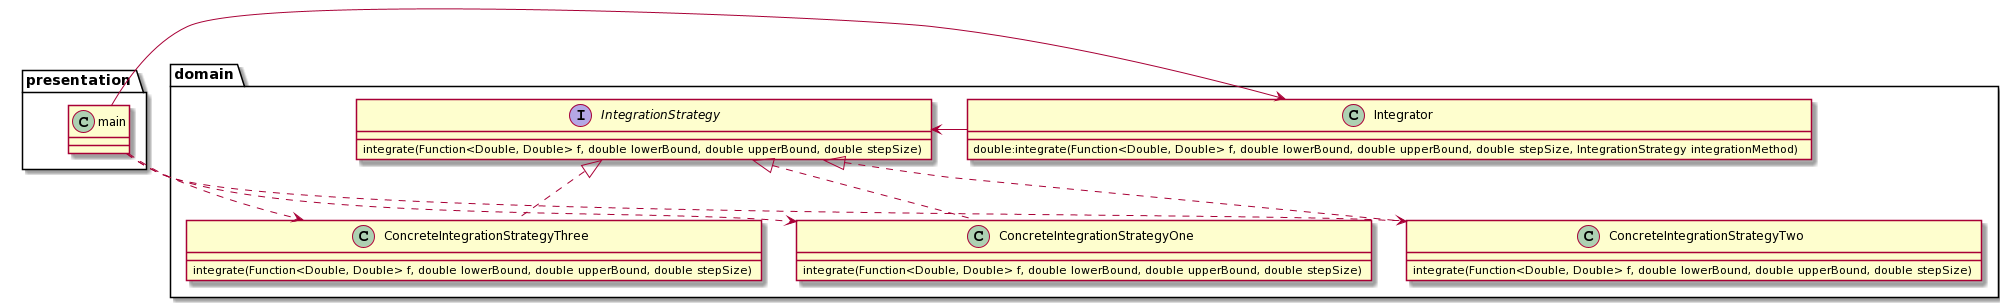
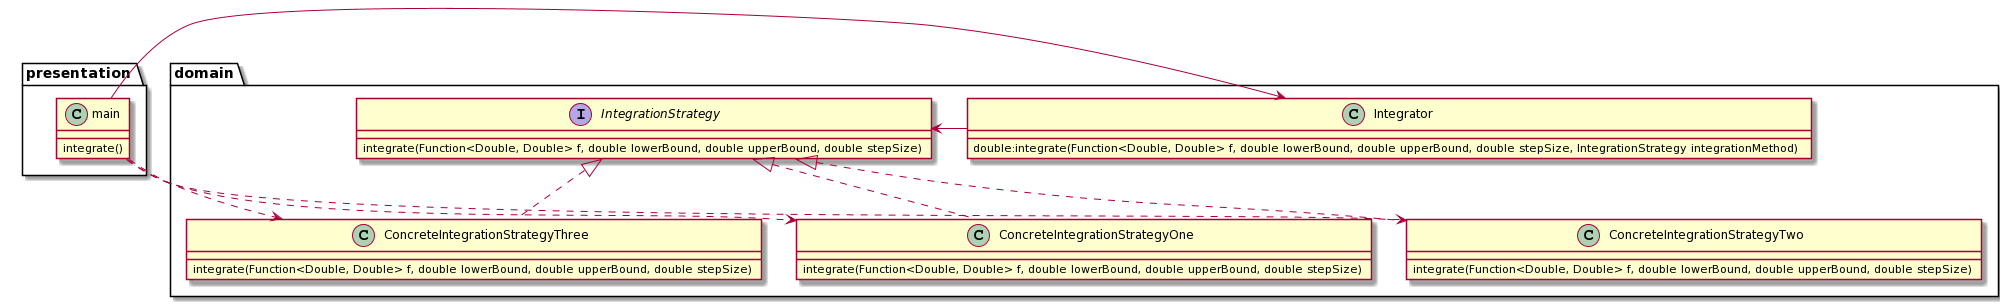
Strategy Sequence Diagram

diff --git a/notebook.md b/notebook.md
@@ -51,3 +51,7 @@ type.
 Class Diagram:
 
 ![Strategy Class Diagram](images/StrategyClassDiagram.png)
+
+Sequence Diagram:
+
+![Strategy Class Diagram](images/StrategySequenceDiagram.png)
